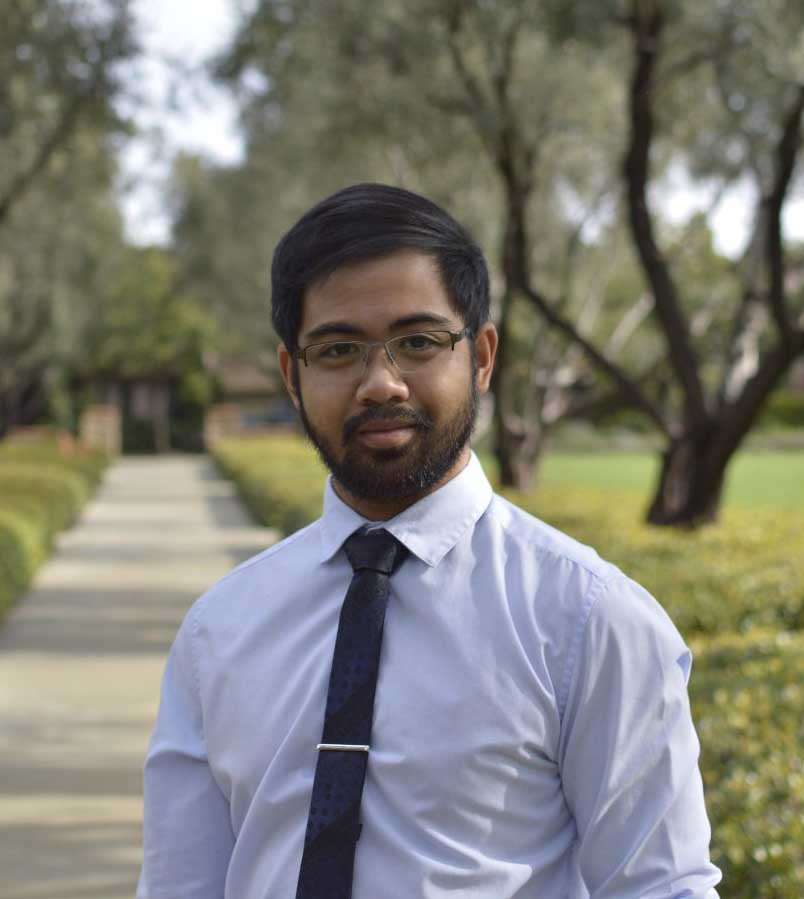
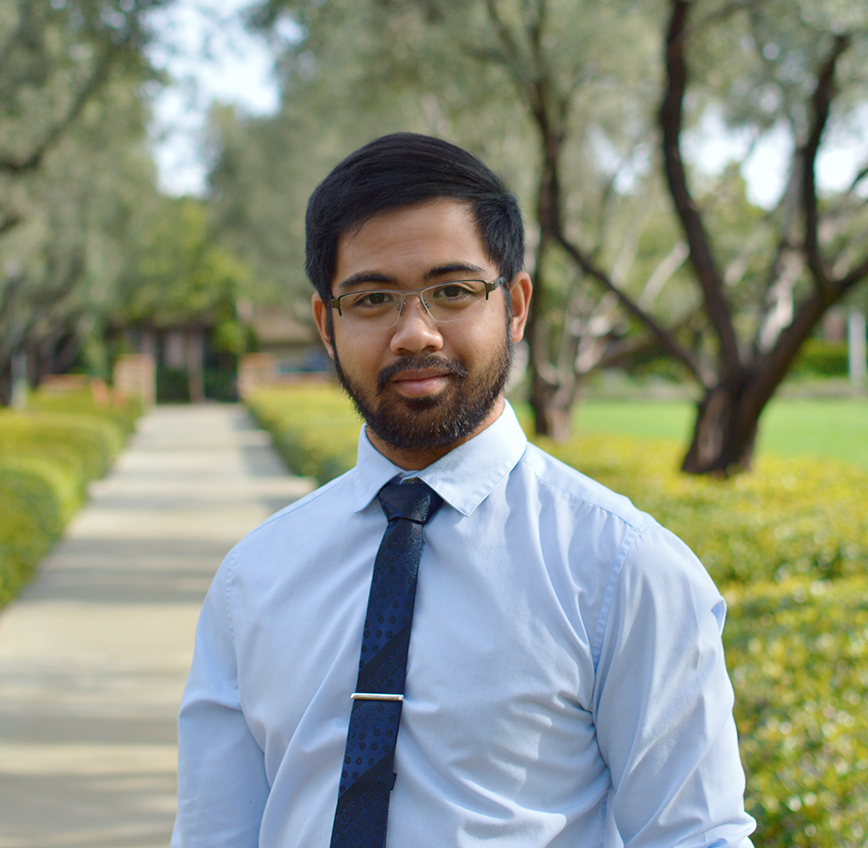
changed and added committee pictures

diff --git a/src/containers/committee/committee.js b/src/containers/committee/committee.js
@@ -1,10 +1,11 @@
 import chrisvillan from './chrisvillan.jpg';
 import lauren from './laurensu.jpg';
 import steven from './stevenespin.jpg';
-import alvaro from './alvarorivas.jpg';
+import alvaro from './alvarorivas.png';
 import pooja from './poojagajjar.jpg';
 import oscar from './oscar.jpg';
 import navie from './1274.jpeg';
+import saqib from './saqib.jpg';
 
 export const Committee = [
   {
@@ -65,22 +66,15 @@ export const Committee = [
     description:'Something',
     email:'pkgajjar@csu.fullerton.edu'
   },
-// {
-//     id: 8,
-//     image: charles,
-//     name:'Charles Bucher',
-//     // title:'A guy',
-//     description:'Something',
-//     email:'charles.abucher@gmail.com'
-// },
-//      {
-//     id: 9,
-//     image: saqib,
-//     name:'Saqib Shahabuddin',
-//     // title:'A guy',
-//     description:'Something',
-//     email:'sshahabuddin@csu.fullerton.edu'
-//   },
+  {
+  id: 8,
+  image: saqib,
+  name:'Saqib Shahabuddin',
+  // title:'A guy',
+  description:'Something',
+  email:'sshahabuddin@csu.fullerton.edu'
+},
+
 //      {
 //     id: 10,
 //     image: tommy,
